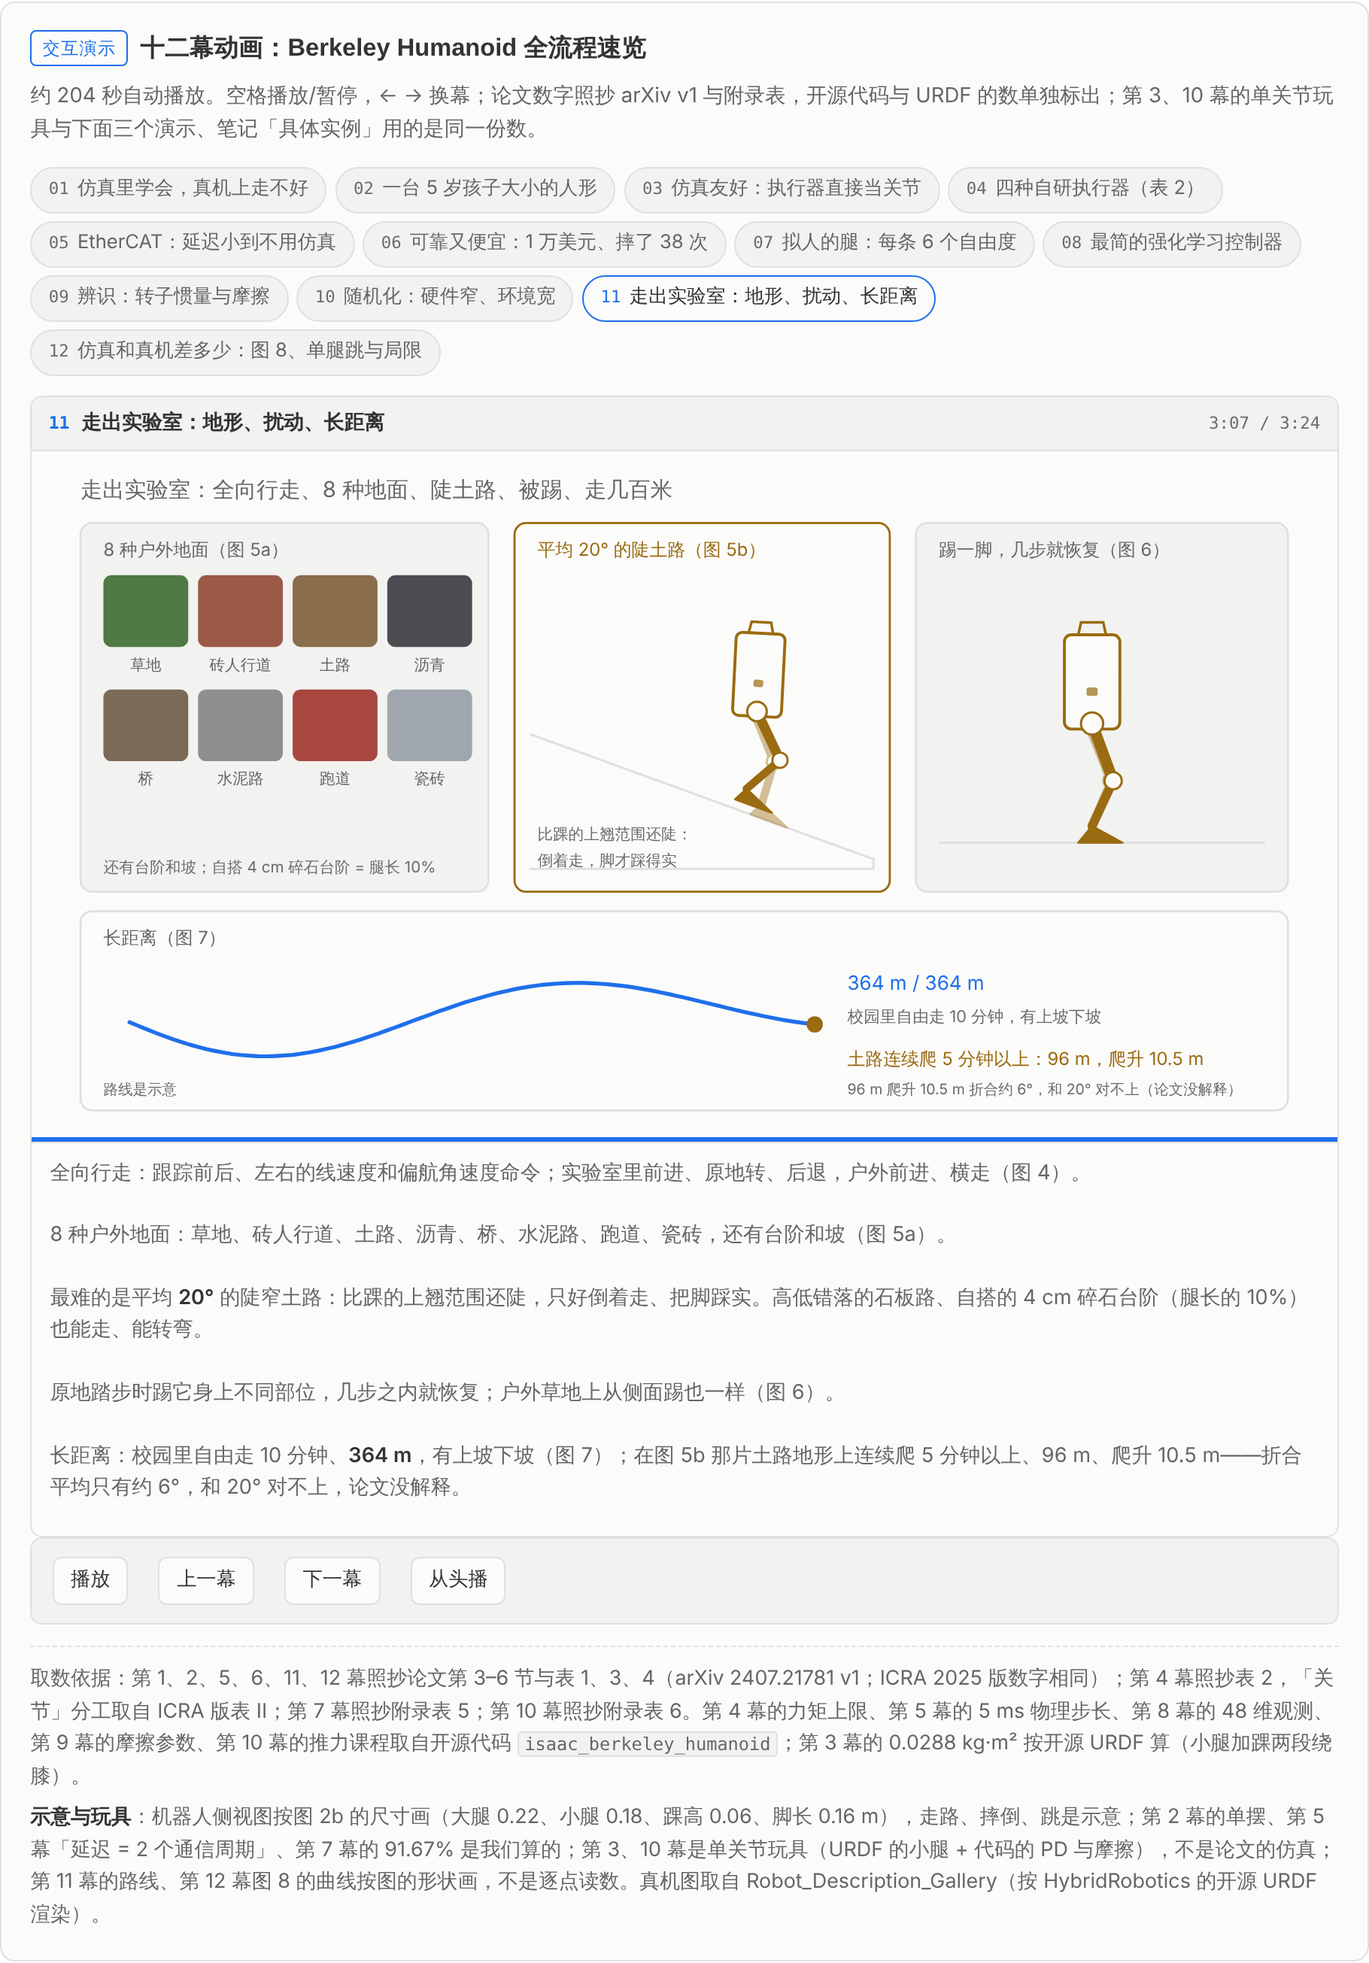
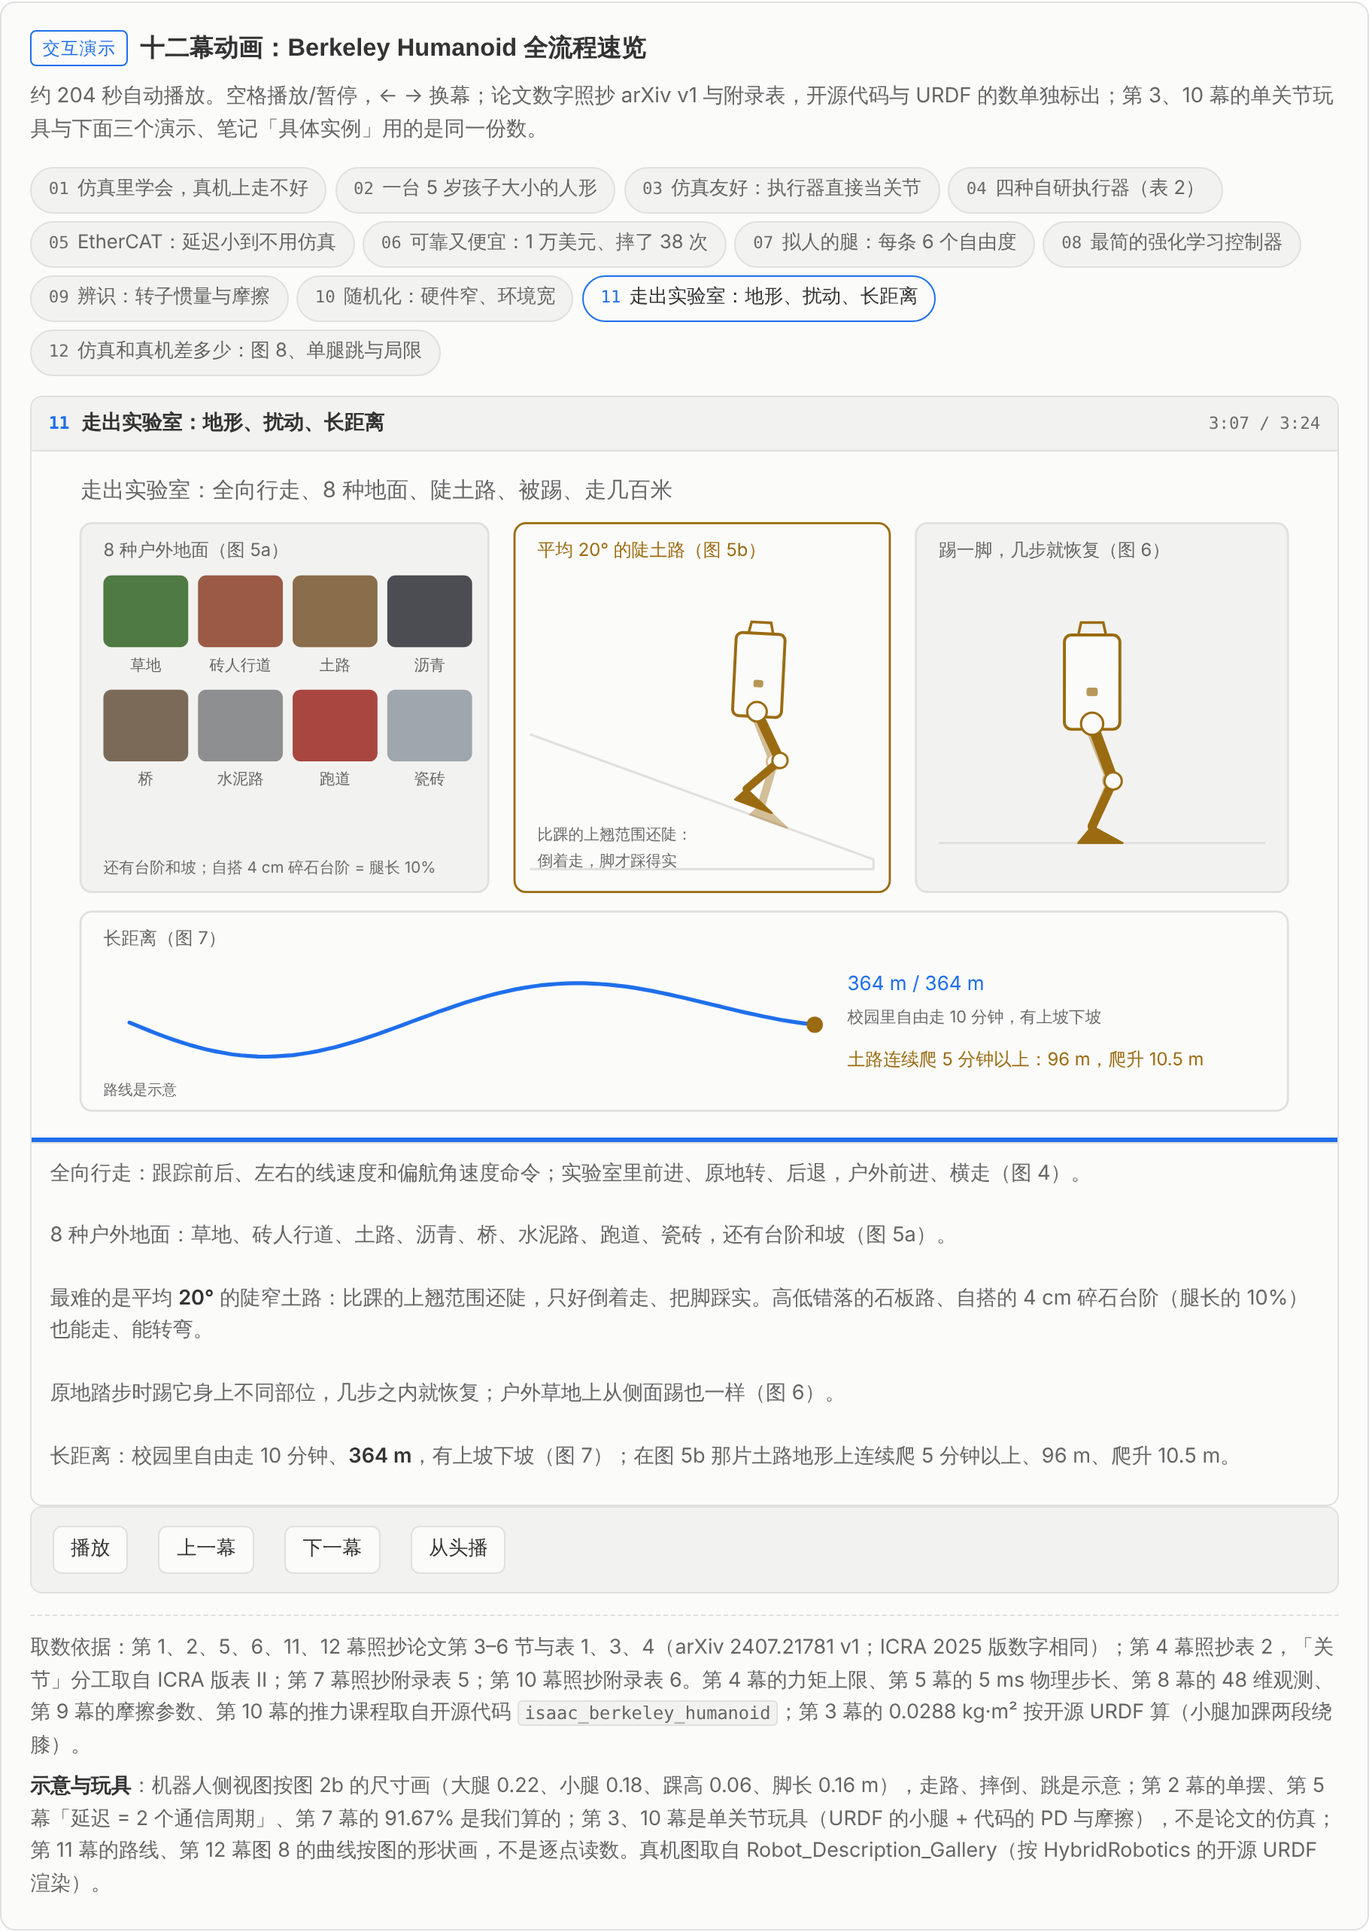
fix(Video): Berkeley Humanoid 第 4 幕线缆从前面穿进空心轴，第 11 幕去掉坡度对不上的说法
- 第 4 幕：线缆从左前方穿进轴心、从背后穿出到右边——左半段挡在电机前面，右半段被电机挡住，只露出盘外一截
- 第 11 幕：按看片反馈去掉「96 m 爬升 10.5 m 折合约 6°，和 20° 对不上」（画面、要点与旁白），旁白重建为 11 分 35 秒
- 换上第 4、11 幕的网页截图

Claude-Session: https://claude.ai/code/session_01CzJ9ykjvsdinfKZezxPJRu

diff --git a/assets/js/demos/berkeley_humanoid.js b/assets/js/demos/berkeley_humanoid.js
@@ -917,6 +917,13 @@
     var XS = [96, 246, 404, 572], CY = 104, PXMM = 0.8;
     var units = ACTUATORS.map(function (a, i) {
       var g = group(s), x = XS[i], r = (a.dia / 2) * PXMM;
+      /* 空心轴走线：线缆从左前方穿进轴心、从背后穿出到右边。右半段（背后）先画，被执行器挡住，只露出盘外那一截；
+         左半段（前面）最后画，挡在电机前面 */
+      var cable = null;
+      if (a.hollow) {
+        cable = [pathLine(g, [], C_WARN, 4), null];
+        cable[0].setAttribute('d', 'M ' + x + ' ' + CY + ' Q ' + (x + 0.5 * r).toFixed(1) + ' ' + (CY - 10) + ' ' + (x + r + 26).toFixed(1) + ' ' + (CY - 16));
+      }
       var ring = paint(svgEl('circle', { cx: x, cy: CY, r: r, 'stroke-width': 2.4 }), C_SURFACE2, C_INK2);
       g.appendChild(ring);
       var rotor = group(g);
@@ -926,12 +933,10 @@
       }
       var hole = paint(svgEl('circle', { cx: x, cy: CY, r: a.hollow ? 0.28 * r : 0.12 * r, 'stroke-width': 1.2 }), a.hollow ? C_SURFACE : C_INK2, C_INK2);
       g.appendChild(hole);
-      /* 线缆沿轴线穿过空心轴：正面看过去是轴心里的一个点（不在转子转的那个面上） */
-      var cable = null;
-      if (a.hollow) {
-        cable = group(g);
-        dotAt(cable, x, CY, 0.18 * r, C_WARN);
-        cable.style.opacity = 0;
+      if (cable) {
+        cable[1] = pathLine(g, [], C_WARN, 4);
+        cable[1].setAttribute('d', 'M ' + (x - r - 26).toFixed(1) + ' ' + (CY + 16) + ' Q ' + (x - 0.5 * r).toFixed(1) + ' ' + (CY + 10) + ' ' + x + ' ' + CY);
+        cable.forEach(function (c) { c.setAttribute('stroke-linecap', 'round'); c.style.opacity = 0; });
       }
       g.appendChild(svgText(x, CY + 70, a.name, 'demo-x-ink2', 12.5, 'middle'));
       g.appendChild(svgText(x, CY + 86, a.g + ' g · ×' + a.qty, 'demo-x-mut', 10, 'middle'));
@@ -963,7 +968,7 @@
     var hollowLab = group(s);
     hollowLab.appendChild(paint(svgText(664, 330, '空心轴：线从轴心穿过', null, 10.5), C_WARN));
     hollowLab.appendChild(svgText(664, 346, '关节转动不磨、不扯线', 'demo-x-mut', 10));
-    hollowLab.appendChild(paint(svgText(664, 362, '橙点：沿轴线穿过的线', null, 9.5), C_WARN));
+    hollowLab.appendChild(paint(svgText(664, 362, '橙线：从轴心穿到背后', null, 9.5), C_WARN));
     var codeLab = group(s);
     codeLab.appendChild(svgText(40, 398, '开源代码把力矩上限压到 20 / 30 / 30 / 20 / 5 N·m（README：安全）', 'demo-x-ink2', 10.5));
 
@@ -979,7 +984,7 @@
         setOpacity(u.vp, seg(t, 4.4 + i * 0.4, 4.8 + i * 0.4));
         setOpacity(u.vc, seg(t, 4.4 + i * 0.4, 4.8 + i * 0.4));
         setOpacity(u.jc, seg(t, 7.1 + i * 0.4, 7.5 + i * 0.4));
-        if (u.cable) setOpacity(u.cable, seg(t, 10.5, 11.1));
+        if (u.cable) u.cable.forEach(function (c) { setOpacity(c, seg(t, 10.5, 11.1)); });
       });
       setOpacity(barKey, seg(t, 3.7, 4.2));
       setOpacity(legG, seg(t, 7.6, 8.4));
@@ -1635,7 +1640,6 @@
     var trail = group(far);
     trail.appendChild(paint(svgText(500, 376, '土路连续爬 5 分钟以上：96 m，爬升 10.5 m', null, 11), C_WARN));
     trail.appendChild(svgText(44, 394, '路线是示意', 'demo-x-mut', 9));
-    trail.appendChild(svgText(500, 394, '96 m 爬升 10.5 m 折合约 6°，和 20° 对不上（论文没解释）', 'demo-x-mut', 9));
     /* 踢：从第 4 段开头按真实时间算（见 sinceCue），第一脚在 0.8 s 后；脚先伸过来、碰到躯干背面才开始推 */
     var kick0 = { v: null }, KC = 0.12, KP = 0.25;
 
@@ -1928,7 +1932,7 @@
         { at: 3.6, s: '8 种户外地面：草地、砖人行道、土路、沥青、桥、水泥路、跑道、瓷砖，还有台阶和坡（图 5a）。' },
         { at: 7.0, s: '最难的是平均 **20°** 的陡窄土路：比踝的上翘范围还陡，只好倒着走、把脚踩实。高低错落的石板路、自搭的 4 cm 碎石台阶（腿长的 10%）也能走、能转弯。' },
         { at: 10.4, s: '原地踏步时踢它身上不同部位，几步之内就恢复；户外草地上从侧面踢也一样（图 6）。' },
-        { at: 13.4, s: '长距离：校园里自由走 10 分钟、**364 m**，有上坡下坡（图 7）；在图 5b 那片土路地形上连续爬 5 分钟以上、96 m、爬升 10.5 m——折合平均只有约 6°，和 20° 对不上，论文没解释。' }
+        { at: 13.4, s: '长距离：校园里自由走 10 分钟、**364 m**，有上坡下坡（图 7）；在图 5b 那片土路地形上连续爬 5 分钟以上、96 m、爬升 10.5 m。' }
       ]
     },
     {

diff --git a/scripts/paper_video/papers/berkeley_humanoid.py b/scripts/paper_video/papers/berkeley_humanoid.py
@@ -94,7 +94,7 @@ SCRIPT = [
     (10, 3.6, 7.0, "8 种户外地面：草地、砖人行道、土路、沥青、桥、水泥路、跑道和瓷砖，还有台阶和坡。"),
     (10, 7.0, 10.4, "最难的是一条平均 20 度的陡窄土路：比踝能上翘的角度还陡，只好退着走，把脚踩实。高低错落的石板路、自己搭的 4 厘米碎石台阶，也都能走、能转弯。"),
     (10, 10.4, 13.4, "原地踏步时，踢它身上不同的部位，几步之内就恢复；在户外草地上从侧面踢，也一样。"),
-    (10, 13.4, 17.0, "长距离：在校园里自由走了 10 分钟、364 米，有上坡也有下坡；在那片土路地形上，连续爬了 5 分钟以上，走了 96 米，爬升 10.5 米，折合平均坡度只有约 6 度，和 20 度对不上，论文没解释。"),
+    (10, 13.4, 17.0, "长距离：在校园里自由走了 10 分钟、364 米，有上坡也有下坡；在那片土路地形上，连续爬了 5 分钟以上，走了 96 米，爬升 10.5 米。"),
 
     (11, 0.0, 3.6, "最后是定量：操作员随手给速度命令，同一个策略在 Isaac Lab 和真机上各跑 60 秒，比较平均跟踪误差。"),
     (11, 3.6, 7.0, "前后方向：仿真 0.051，真机 0.058 米每秒；左右方向：0.086 对 0.1156。策略看不到历史、没法在线辨识，差距这么小，说明两边本来就很接近。"),

diff --git a/tests/test_paper_demos.py b/tests/test_paper_demos.py
@@ -2778,7 +2778,7 @@ def test_berkeley_humanoid_explainer_demos_and_worked_example_share_the_paper_nu
         'data-demo="bh-armature"', 'data-demo="bh-actuator"', 'data-demo="bh-dr"',
     ):
         assert needle in note, needle
-    for needle in ("16 公斤", "0.85 米", "364 米", "0.01215", "42%", "81.1", "9955", "0.82", "0.37", "0.051", "0.058", "0.1156", "38 次", "91.6%", "7 倍", "1.58", "约 6 度"):
+    for needle in ("16 公斤", "0.85 米", "364 米", "0.01215", "42%", "81.1", "9955", "0.82", "0.37", "0.051", "0.058", "0.1156", "38 次", "91.6%", "7 倍", "1.58"):
         assert needle in narration, needle
     # 片头接上一期（InEKF）的片尾预告，片尾只预告下一篇（ToddlerBot）
     assert "上一期结尾预告：硬件、执行器辨识和仿真训练一起设计" in narration and "下一篇讲 ToddlerBot" in narration

diff --git a/scripts/paper_video/RELEASE_PLAN.md b/scripts/paper_video/RELEASE_PLAN.md
@@ -42,7 +42,7 @@
 - [x] 017 [ASAP](../../papers/03_High_Impact_Selection/ASAP_Aligning_Simulation_and_Real-World_Physics_for_Agile_Humanoid_Skills/ASAP_Aligning_Simulation_and_Real-World_Physics_for_Agile_Humanoid_Skills.md)（2025）🎬 `asap` — LCP→ASAP、ASAP⇢BeyondMimic；BeyondMimic 笔记拿它当「单动作专用，每条动作要单独调 DR / 奖励」的对照；2026-10-06 新做十二幕，片头接 016 的片尾预告（LCP 改策略，ASAP 改仿真），片尾预告 018 BeyondMimic；截至 2026-10-08 已发布（用户确认）
 - [x] 018 [BeyondMimic](../../papers/01_Foundational_RL/BeyondMimic/BeyondMimic.md)（2025）🎬 `beyondmimic` — DP→BeyondMimic；笔记把 CALM / PULSE 和 Diffusion Policy 列为它要补足的两类前作；2026-10-06 按 arXiv v4 重做成十二幕，片头接 017 的片尾预告（ASAP 一段动作一套配方 → BeyondMimic 一份配方），2026-10-07 片尾画面与配音的源文件已改为预告 019 InEKF「机器人怎样知道自己当前的姿态和速度」（借第 12 幕「还依赖状态估计」接过去，不说 BeyondMimic 用了 InEKF），同日参考 ASAP 改正火柴人（前踢反关节、侧手翻改成腾空）与几条曲线；2026-10-08 全片重渲为 9 分 47 秒、换进笔记；同日按看片反馈改 VAE 读法（逐字母念）、第 5 幕改成皮带减速器（电机小轮转 5 圈、关节大轮转 1 圈、同向）、第 11 幕说明灰虚线（只加路点代价时穿过障碍）、四处文字出框、SDF / CppAD 各加一句解释，随后以四段并行完成全片重渲（本次交付原片 10 分 9 秒，1080×1920、30 fps、18,282 帧），排版、完整帧数与全片解码检查均通过；截至 2026-10-08 已发布（用户确认）
 - [ ] 019 [Contact-Aided InEKF](../../papers/09_State_Estimation/Contact-Aided_Invariant_EKF_for_Legged_Robots/Contact-Aided_Invariant_EKF_for_Legged_Robots.md)（2018 / 2019）🎬 `inekf` — day6「状态估计先于动作」：融合 IMU、接触与足端运动学，估计身体姿态和速度。〔取舍〕先看 BeyondMimic 的跟踪能力，再补状态估计背景；这是教学关联，不表示 BeyondMimic 采用该论文的 InEKF。day6 对应 [RSS 2018 会议版](https://arxiv.org/abs/1805.10410)；上游清单收录的是 [IJRR 2020 扩展版](https://arxiv.org/abs/1904.09251)（标题去掉了 Legged，2019 年挂 arXiv），2026-10-08 以扩展版为准重写笔记、单列两版关系，新做十二幕动画、三个交互演示与配音视频（约 10 分钟），片头接 018 的片尾预告，片尾只预告 020 Berkeley Humanoid；同日按看片反馈换上 Robot_Description_Gallery 新的 Cassie 图（UMich BipedLab 展示模型，灰色），第 2、3、4、6、10 幕的火柴人改成 Cassie 鸟腿（画法同 014 真实世界人形行走的 Digit 下半身，Digit 的腿就是 Cassie 的腿；连杆按 MuJoCo Menagerie 的 Cassie 模型，大腿 : 小腿 : 跗骨 = 0.12 : 0.50 : 0.41 m，跗骨跟着大腿转），只出了第 1–4、6、10、12 幕的改动片段；2026-10-09 再按看片反馈把第 2 幕改成左右脚交替、旁白「C++」连成一个词念，并对照 IJRR 原文逐幕复查，改正第 6 幕 GPS 的归属（世界中心左不变、机器人中心右不变，表 2 / 3）、第 8 幕 QEKF 的宽度按图 6 读图（约为真值一半）、第 10 幕路标可观性（要有已知位置的路标）、第 1 幕激光雷达「怕暗」、第 5 幕图 4 的初始误差（旋转向量 (π/2, π/2, π/2)，约 156°）、第 6 幕「靠前 2 cm、高 2 cm」等，第 3 幕竖直分量放大 20 倍显出「多算一倍」，只出了改动的片段，**全片待重渲与验收后发布**。发布标题用扩展版英文标题（与 `_data/papers.json` 一致）
-- [ ] 020 [Berkeley Humanoid](../../papers/12_Hardware_Design/Berkeley_Humanoid_A_Research_Platform_for_Learning-based_Control/Berkeley_Humanoid_A_Research_Platform_for_Learning-based_Control.md)（2024）🎬 `berkeley_humanoid` — day6「仿真与硬件」：硬件、执行器辨识与仿真训练共同设计。LCP 在该平台上验证，属于部署平台关联。〔取舍〕承接状态估计，补上控制命令落到硬件这一环。2026-10-09 新建笔记：以 arXiv v1 为准（上游清单收录的是它，附录表 4–6 也只在这一版），对照 ICRA 2025 版（课题组主页 8 页 PDF）与官方训练代码；论文只说「用简单实验单独测每个执行器的摩擦」，没写台架细节，笔记与视频都按此表述。新做十二幕动画、三个交互演示（减速比与转子惯量、关节的力矩—速度包络与摩擦、窄 / 宽随机化的单关节玩具）与配音视频（11 分 16 秒），片头接 019 的片尾预告，片尾只预告 021 ToddlerBot；2026-10-10 按看片反馈修字幕「M L P」被切成两行（build.py 改为先换成字幕写法再切行），并在 MLP 第一次出现时加一句「多层感知机」的解释，只出了第 1 幕的改动片段；同日旁白里的 EtherCAT 改念 EE-ther-cat（大写的 CAT 会被逐字母念），再按「全局检查物理与逻辑」逐幕复查（分幕并行审查、逐条复核后再查一遍回归），改正第 2–12 幕：单摆一起松手计数、弹簧两端固定随膝压缩、转子与输出同向 9:1、线缆沿轴线、25 kHz 画成实心带、摔倒越倒越快且不再一帧躺平、髋两轴斜 45°、去掉四样分两种理由、库仑（滑动）/ 黏性摩擦与示意测点、「不属于这两类的笼统参数」不随机化、机身 ±1 kg 按躯干折算、命令与步态一致、踢到才推、坡上脚掌贴坡、跳跃走抛物线、安全绳定长等，笔记同步；配音重建为 11 分 39 秒，只出了第 2–12 幕的改动片段，**全片待重渲与验收后发布**。发布标题用 arXiv 英文标题（与 `_data/papers.json` 一致）
+- [ ] 020 [Berkeley Humanoid](../../papers/12_Hardware_Design/Berkeley_Humanoid_A_Research_Platform_for_Learning-based_Control/Berkeley_Humanoid_A_Research_Platform_for_Learning-based_Control.md)（2024）🎬 `berkeley_humanoid` — day6「仿真与硬件」：硬件、执行器辨识与仿真训练共同设计。LCP 在该平台上验证，属于部署平台关联。〔取舍〕承接状态估计，补上控制命令落到硬件这一环。2026-10-09 新建笔记：以 arXiv v1 为准（上游清单收录的是它，附录表 4–6 也只在这一版），对照 ICRA 2025 版（课题组主页 8 页 PDF）与官方训练代码；论文只说「用简单实验单独测每个执行器的摩擦」，没写台架细节，笔记与视频都按此表述。新做十二幕动画、三个交互演示（减速比与转子惯量、关节的力矩—速度包络与摩擦、窄 / 宽随机化的单关节玩具）与配音视频（11 分 16 秒），片头接 019 的片尾预告，片尾只预告 021 ToddlerBot；2026-10-10 按看片反馈修字幕「M L P」被切成两行（build.py 改为先换成字幕写法再切行），并在 MLP 第一次出现时加一句「多层感知机」的解释，只出了第 1 幕的改动片段；同日旁白里的 EtherCAT 改念 EE-ther-cat（大写的 CAT 会被逐字母念），再按「全局检查物理与逻辑」逐幕复查（分幕并行审查、逐条复核后再查一遍回归），改正第 2–12 幕：单摆一起松手计数、弹簧两端固定随膝压缩、转子与输出同向 9:1、线缆从前面穿进空心轴、从背后穿出、25 kHz 画成实心带、摔倒越倒越快且不再一帧躺平、髋两轴斜 45°、去掉四样分两种理由、库仑（滑动）/ 黏性摩擦与示意测点、「不属于这两类的笼统参数」不随机化、机身 ±1 kg 按躯干折算、命令与步态一致、踢到才推、坡上脚掌贴坡、跳跃走抛物线、安全绳定长等，笔记同步；配音重建为 11 分 39 秒，只出了第 2–12 幕的改动片段，**全片待重渲与验收后发布**。发布标题用 arXiv 英文标题（与 `_data/papers.json` 一致）
 - [ ] 021 [ToddlerBot](../../papers/12_Hardware_Design/ToddlerBot_Open-Source_ML-Compatible_Humanoid_Platform_for_Loco-Manipulation/ToddlerBot_Open-Source_ML-Compatible_Humanoid_Platform_for_Loco-Manipulation.md)（2025）🎬 `toddlerbot` — day6「仿真与硬件」：把校准、数字孪生、遥操作采集与部署工具连成完整平台。〔取舍〕与 Berkeley Humanoid 连着讲，由硬件与仿真对齐走向整套工具链；片尾从遥操作采集引出 022 HumanML3D / 023 GMR 的动作数据与重定向。2026-10-09 新建笔记：以 arXiv v4（CoRL 2025 版）为准，对照 v1（执行器模型从 6 参数改成 9 参数、表 3 全部重测）与官方代码 2.0（50 → 200 Hz、膝去掉平行连杆、`rsl_rl`）；新做十二幕动画、三个交互演示（一台 Dynamixel 在仿真里长什么样、拿掉一个参数 chirp 跟踪差多少、功率因子按身高体重选电机）与配音视频，片头接 020 的片尾预告，片尾只预告 022 HumanML3D「人类动作数据从哪里来」
 - [ ] 022 [AMASS / HumanML3D](../../papers/14_Human_Motion/HumanML3D/HumanML3D.md)（2019 / 2022）🎬 `humanml3d` 可选 — AMASS / HumanML3D→GMR；视频讲的是 HumanML3D
 - [ ] 023 [GMR](../../papers/02_Motion_Retargeting/Retargeting_Matters__General_Motion_Retargeting_for_Humanoid_Motion_Tracking/Retargeting_Matters__General_Motion_Retargeting_for_Humanoid_Motion_Tracking.md)（2025）🎬 `gmr` — GMR 论文用 BeyondMimic 作中性训练框架做对比，所以排在它后面
